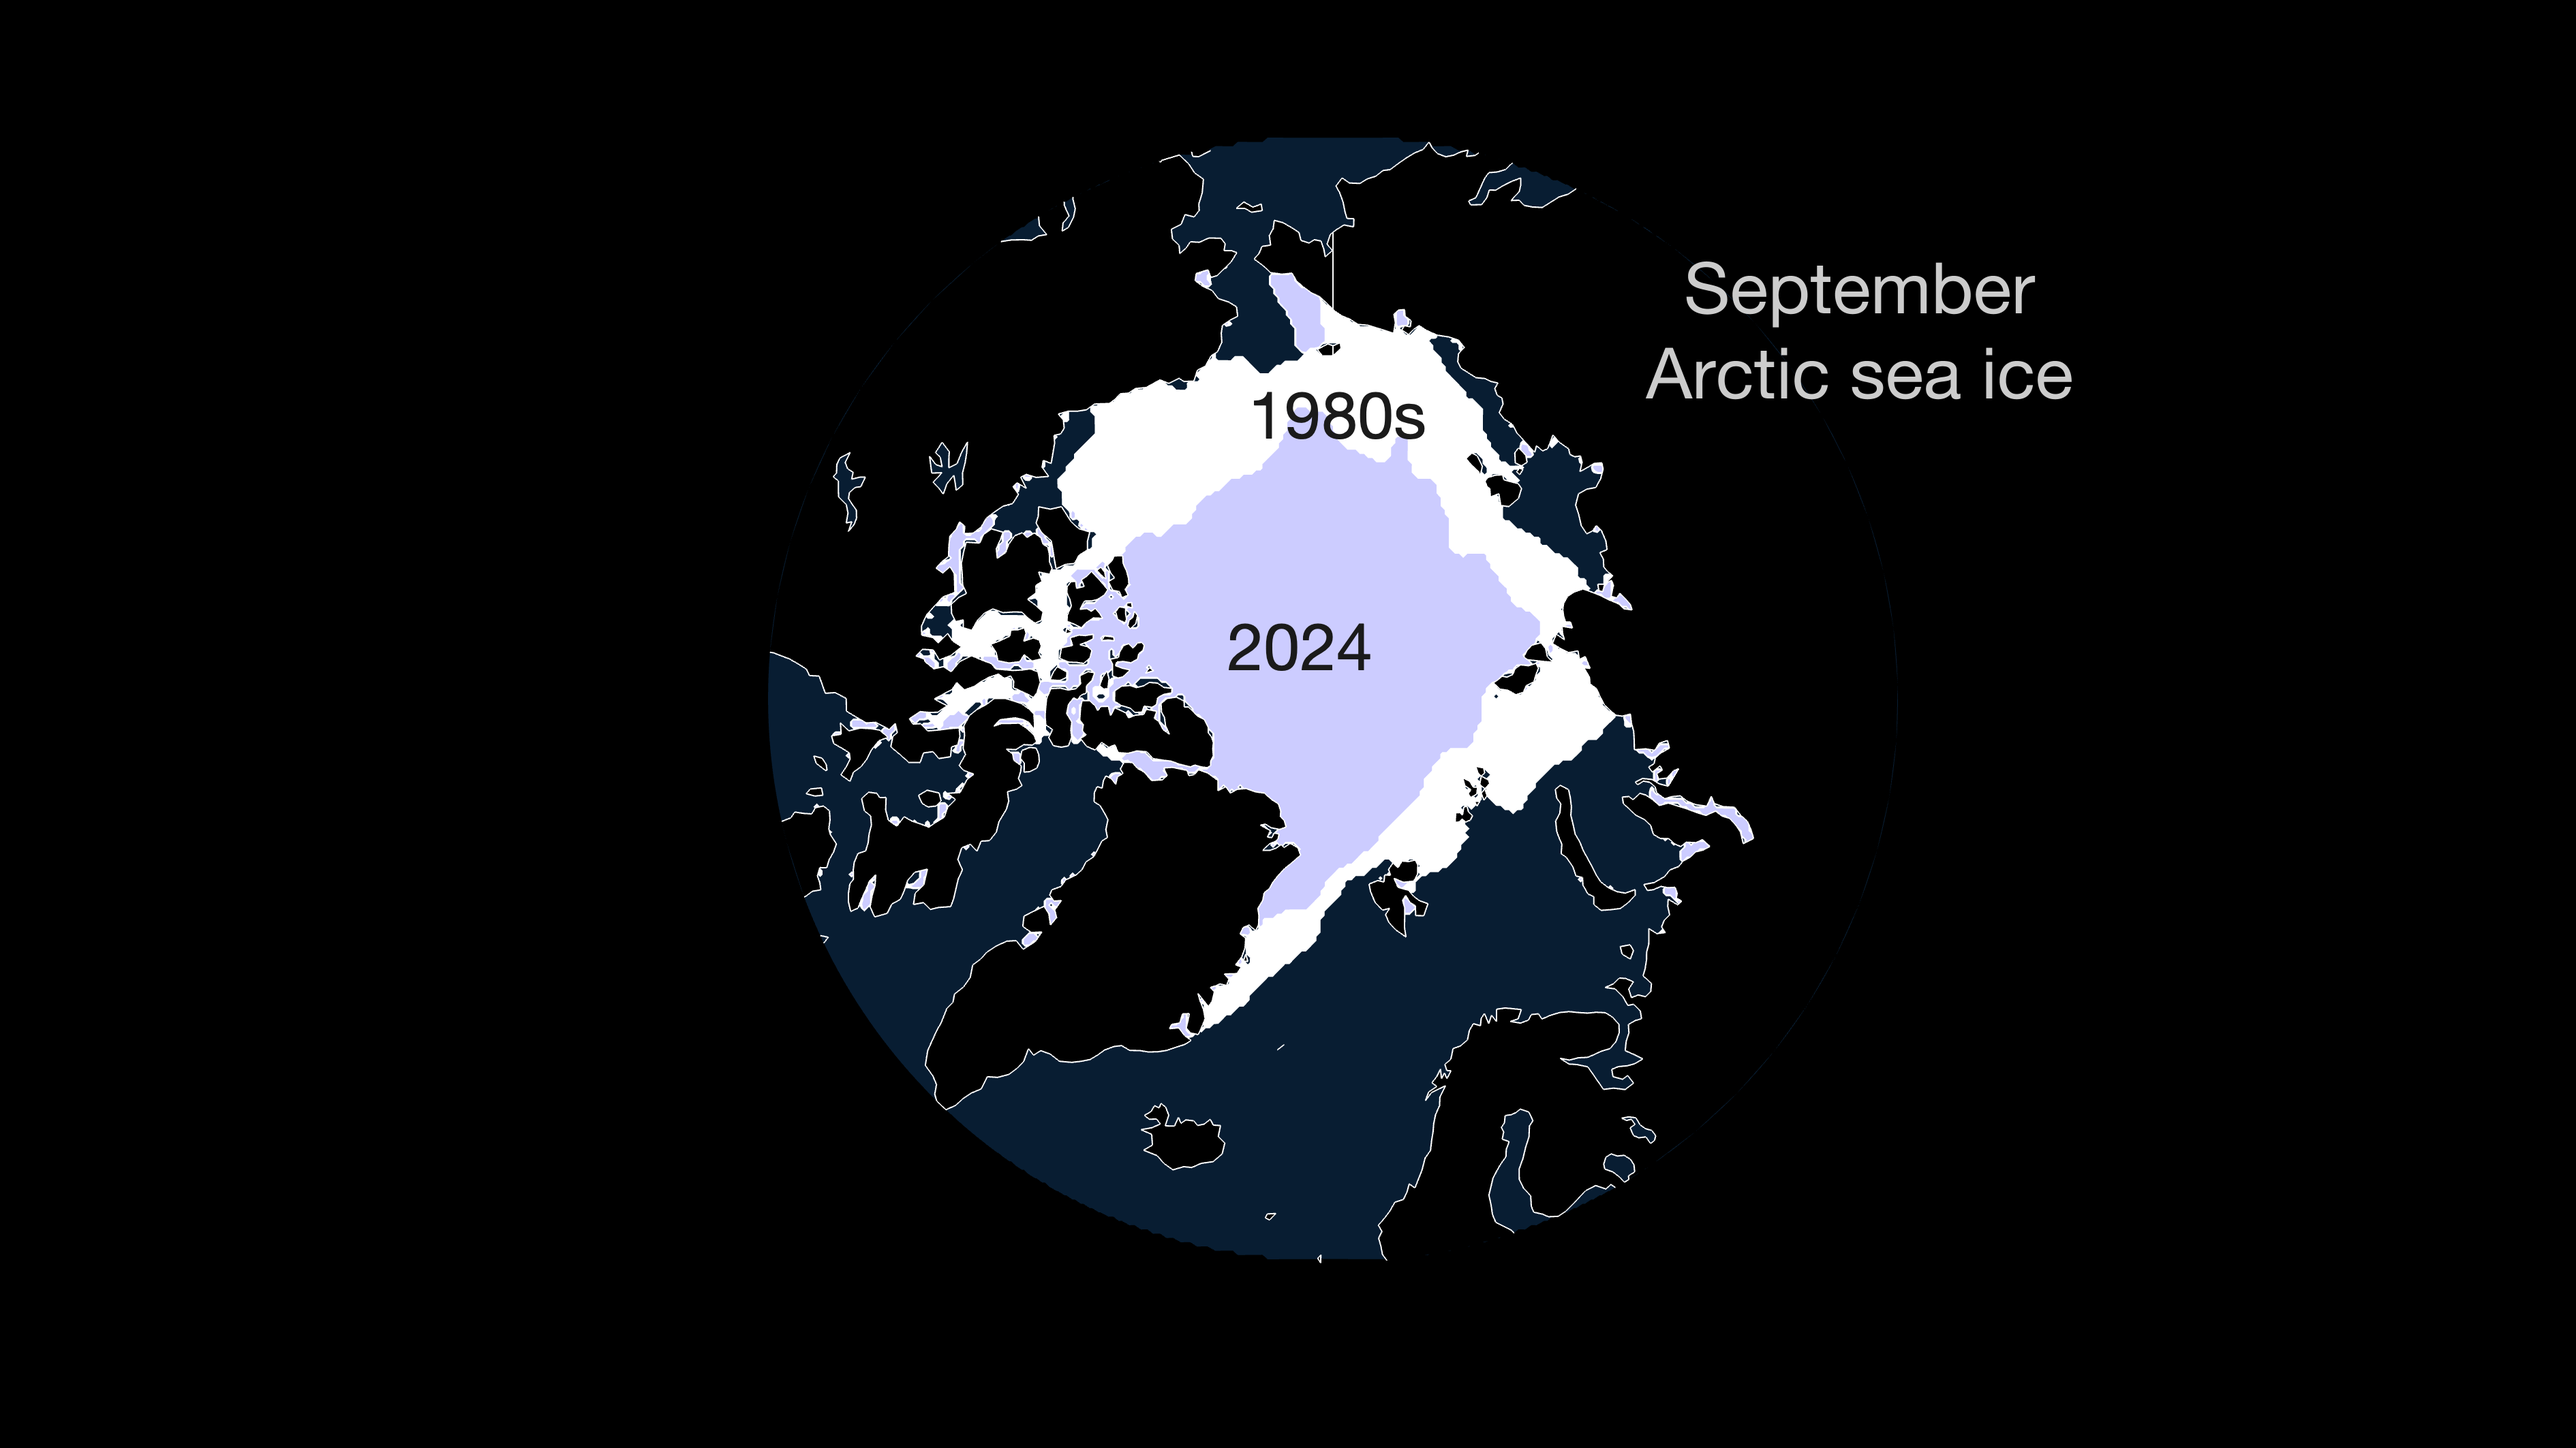
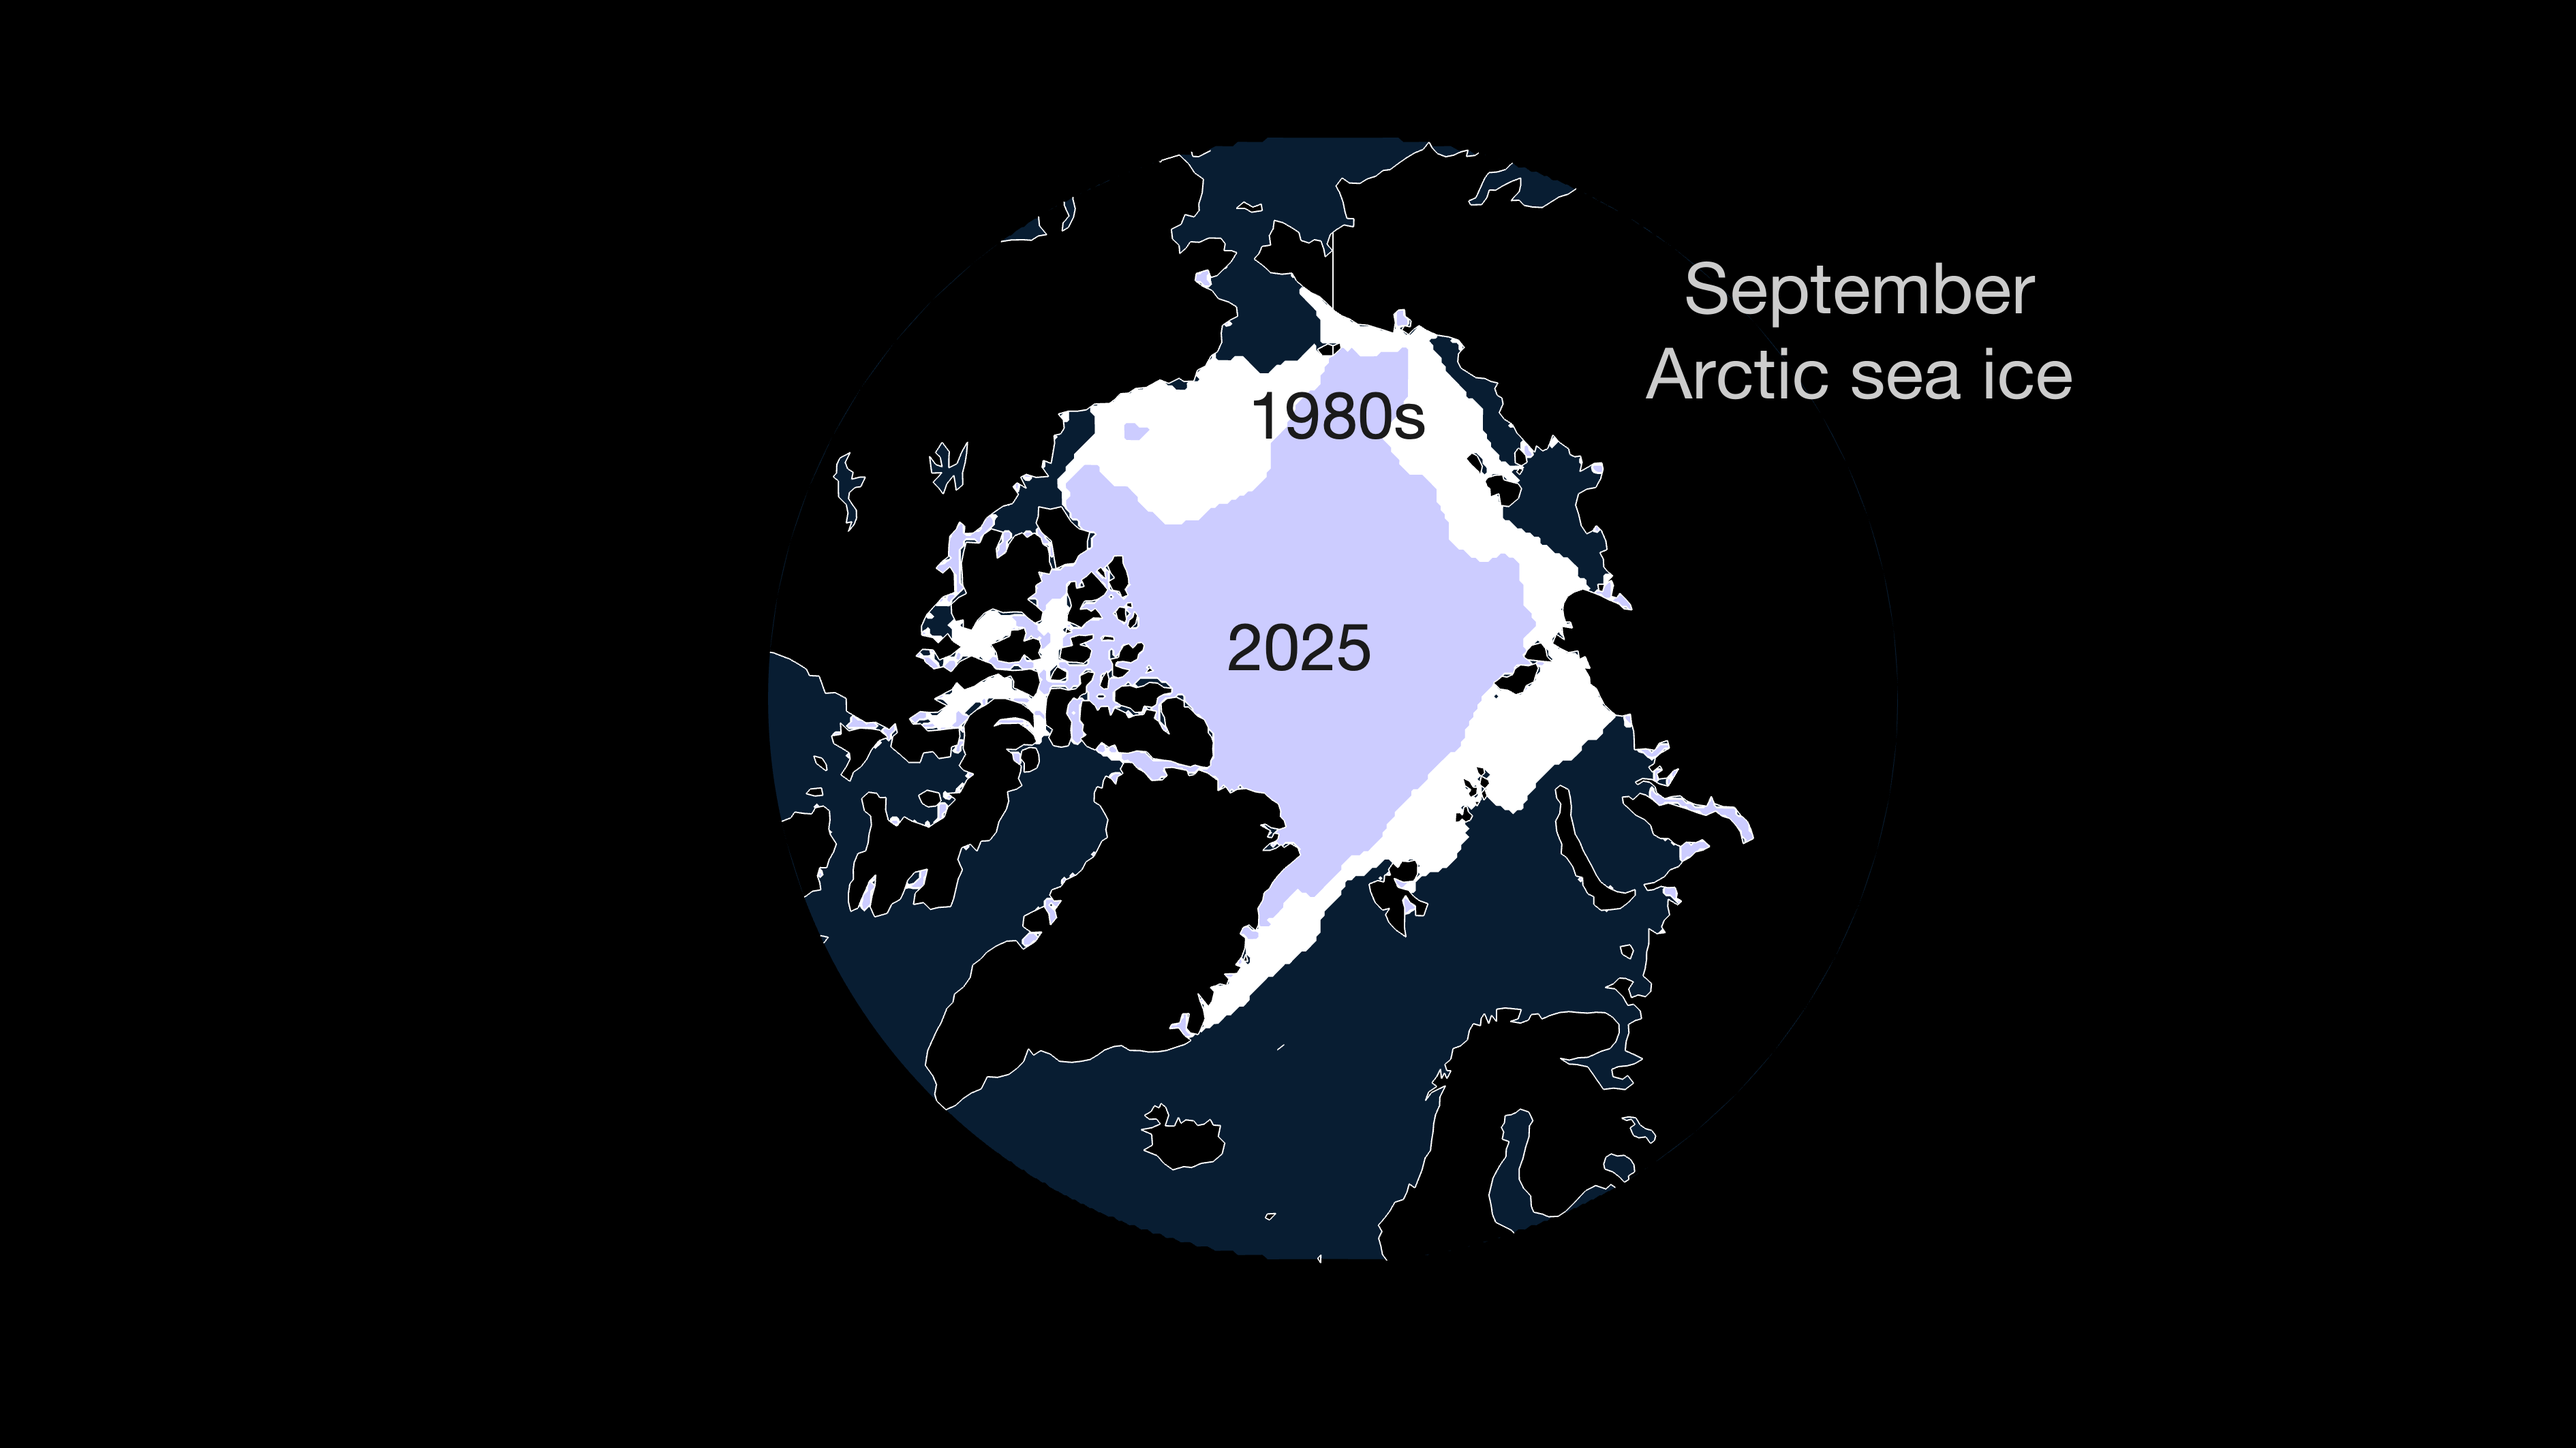
Arctic update for 2025

diff --git a/arctic.md b/arctic.md
@@ -1,6 +1,13 @@
 
 ### Change in Arctic summer sea ice concentration
-[![Arctic sea ice animation](ARCTIC-MAPS/ARCTIC-SEA-ICE-COMPARE-September.png)](ARCTIC-MAPS/ARCTIC-SEA-ICE-COMPARE-September.png)
+[![Arctic sea ice comparison](ARCTIC-MAPS/ARCTIC-SEA-ICE-COMPARE-September.png)](ARCTIC-MAPS/ARCTIC-SEA-ICE-COMPARE-September.png)
+
+### Change in Arctic summer dense sea ice concentration
+[![Arctic sea ice comparison for dense ice](ARCTIC-MAPS/ARCTIC-SEA-ICE-COMPARE-September-dense.png)](ARCTIC-MAPS/ARCTIC-SEA-ICE-COMPARE-September-dense.png)
 
 ### Animated change in Arctic summer sea ice concentration
 [![Arctic sea ice animation](ARCTIC-MAPS/ARCTIC-SEA-ICE-September.gif)](ARCTIC-MAPS/ARCTIC-SEA-ICE-September.gif)
+
+### Animated change in Arctic summer sea ice concentration (no edge)
+[![Arctic sea ice animation (no edge)](ARCTIC-MAPS/ARCTIC-SEA-ICE-September-noedge.gif)](ARCTIC-MAPS/ARCTIC-SEA-ICE-September-noedge.gif)
+
